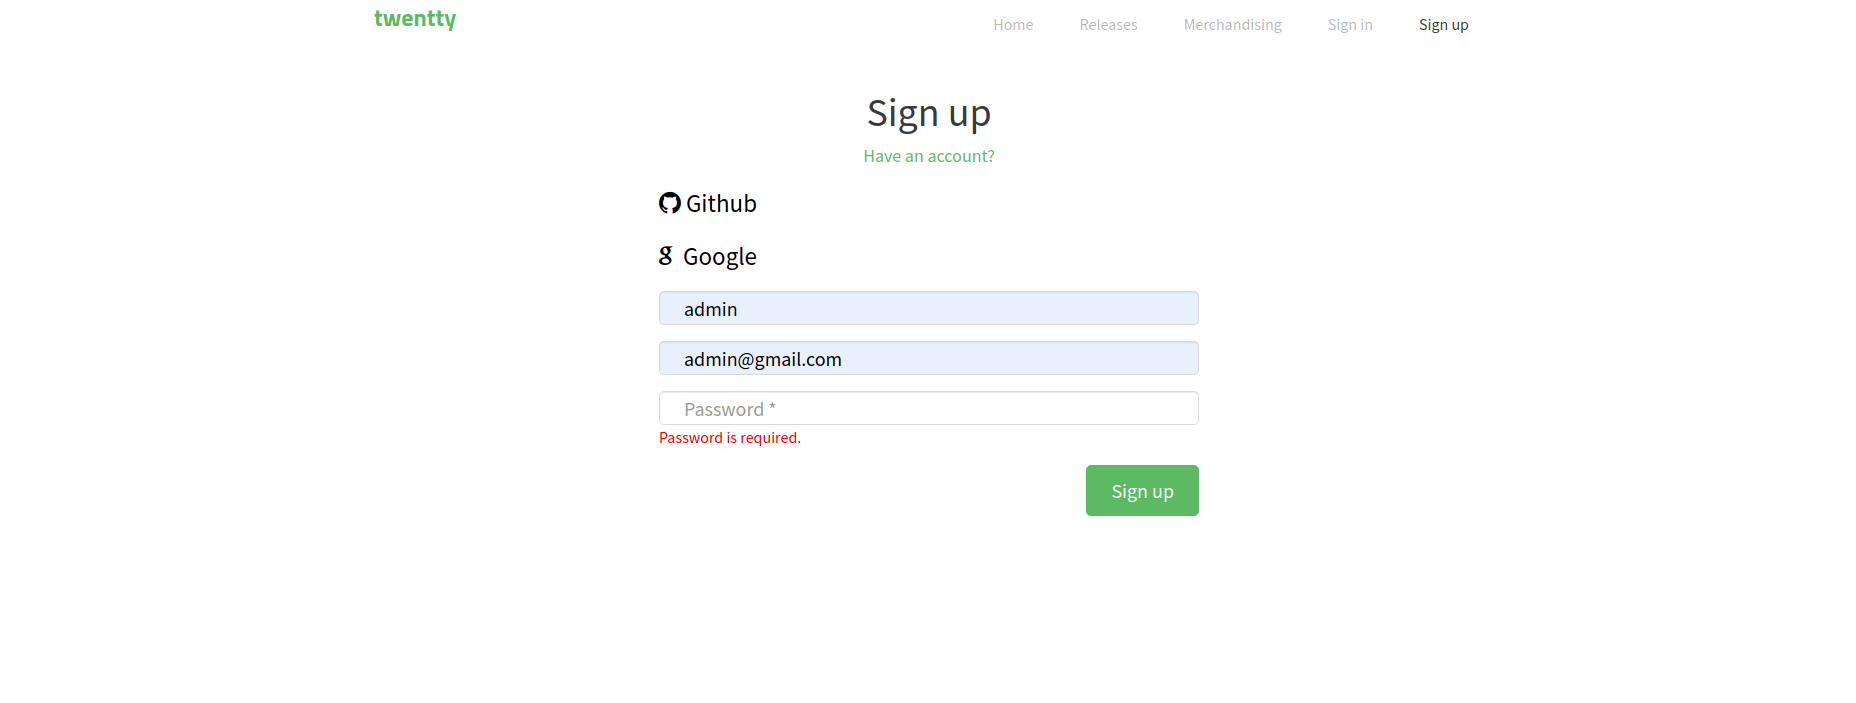
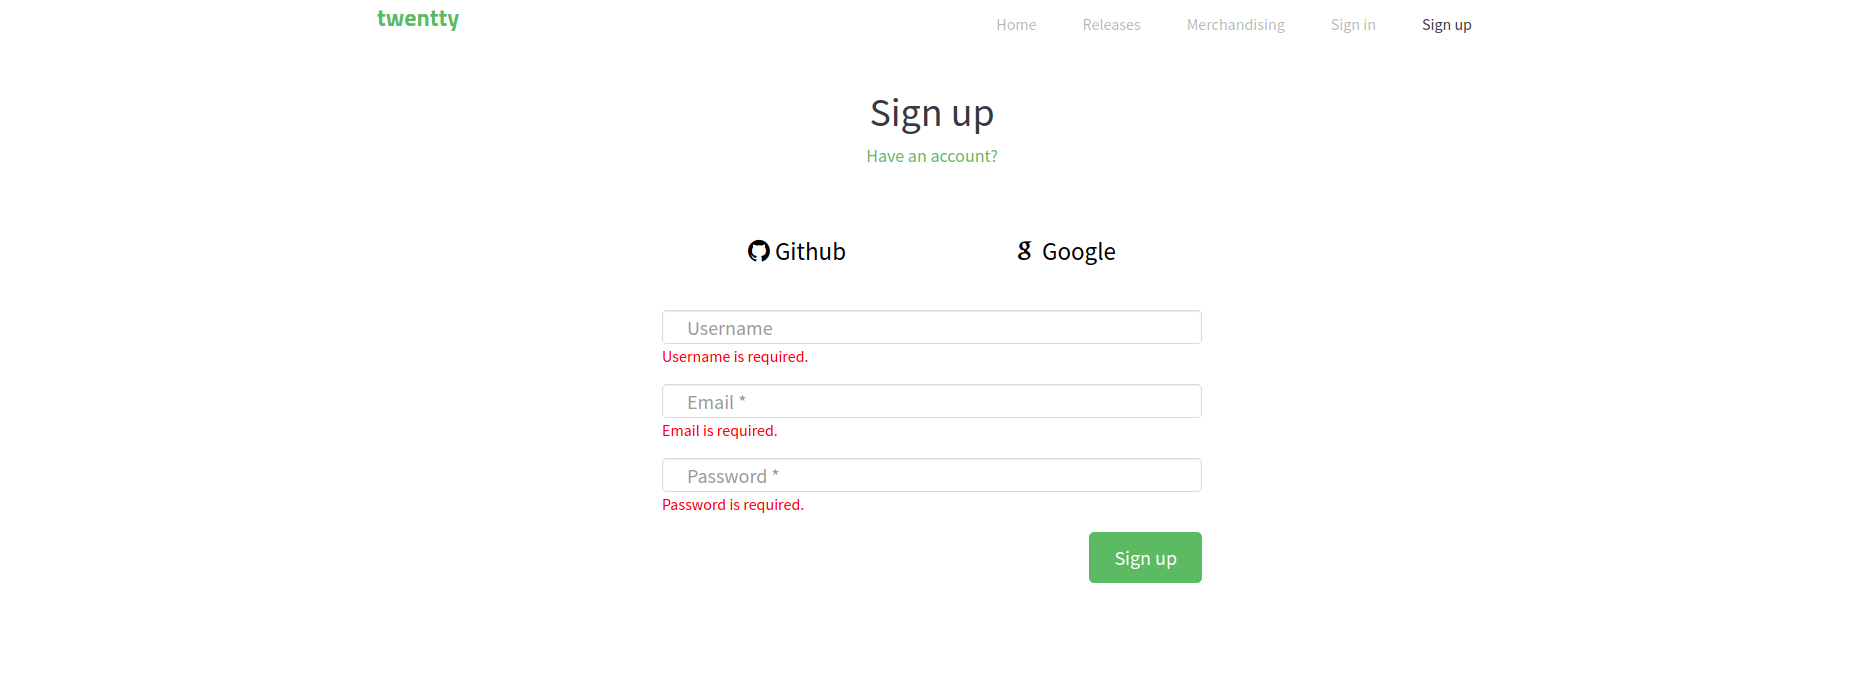
upload media readme

diff --git a/frontend/src/js/auth/auth.html b/frontend/src/js/auth/auth.html
@@ -19,14 +19,18 @@
 
         <form name="authForm" ng-submit="$ctrl.submitForm()">
           <fieldset ng-disabled="$ctrl.isSubmitting">
-
-            <fieldset class="form-group" ng-show="$ctrl.authType === 'register'">
-              <a href="http://localhost:3000/api/auth/github" style="font-size: 25px; color:black"><i class="ion-social-github"></i>&nbsp;Github</a>
-            </fieldset>
-
-            <fieldset class="form-group" ng-show="$ctrl.authType === 'register'">
-              <a href="http://localhost:3000/api/auth/google" style="font-size: 25px; color:black"><i class="ion-social-google"></i>&nbsp; Google</a>
-            </fieldset>
+            <br><br>
+            <div style="display: flex; justify-content: space-around;">
+              <fieldset class="form-group" ng-show="$ctrl.authType === 'register'">
+                <a href="http://localhost:3000/api/auth/github" style="font-size: 25px; color:black"><i class="ion-social-github"></i>&nbsp;Github</a>
+              </fieldset>
+  
+              <fieldset class="form-group" ng-show="$ctrl.authType === 'register'">
+                <a href="http://localhost:3000/api/auth/google" style="font-size: 25px; color:black"><i class="ion-social-google"></i>&nbsp; Google</a>
+              </fieldset>
+            </div>
+            <br>
+            
             <div ng-if="$ctrl.authType === 'register'">
               
               <fieldset class="form-group" ng-show="$ctrl.authType === 'register'">
